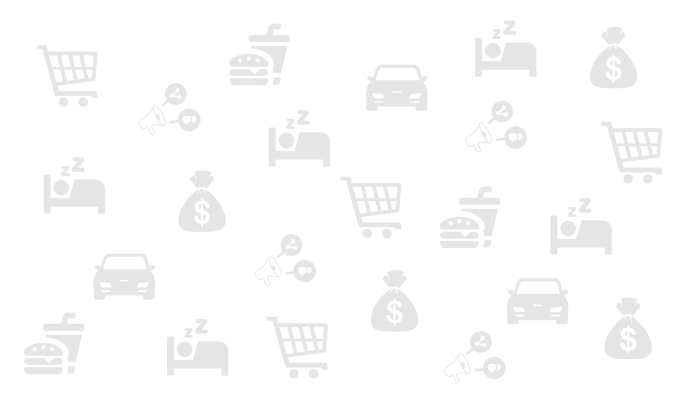
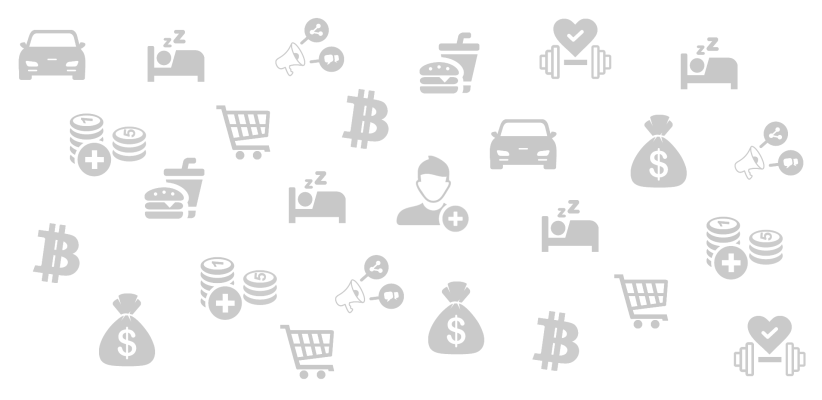
new background image

diff --git a/referralroulette/static/style.css b/referralroulette/static/style.css
@@ -36,14 +36,14 @@ body {
 }
 
 .bg-lightimage {
-    background-image: url('../static/background_colored_400px.png');
+    background-image: url('../static/background_400px.png');
     background-size: contain;
     background-position: center;
     box-shadow: inset 0 0px 15px 15px #fdf6f3;
 }
 
 .bg-image {
-    background-image: url('../static/background_colored_400px.png');
+    background-image: url('../static/background_400px.png');
     background-size: contain;
     background-position: center;
     background-repeat: repeat;
